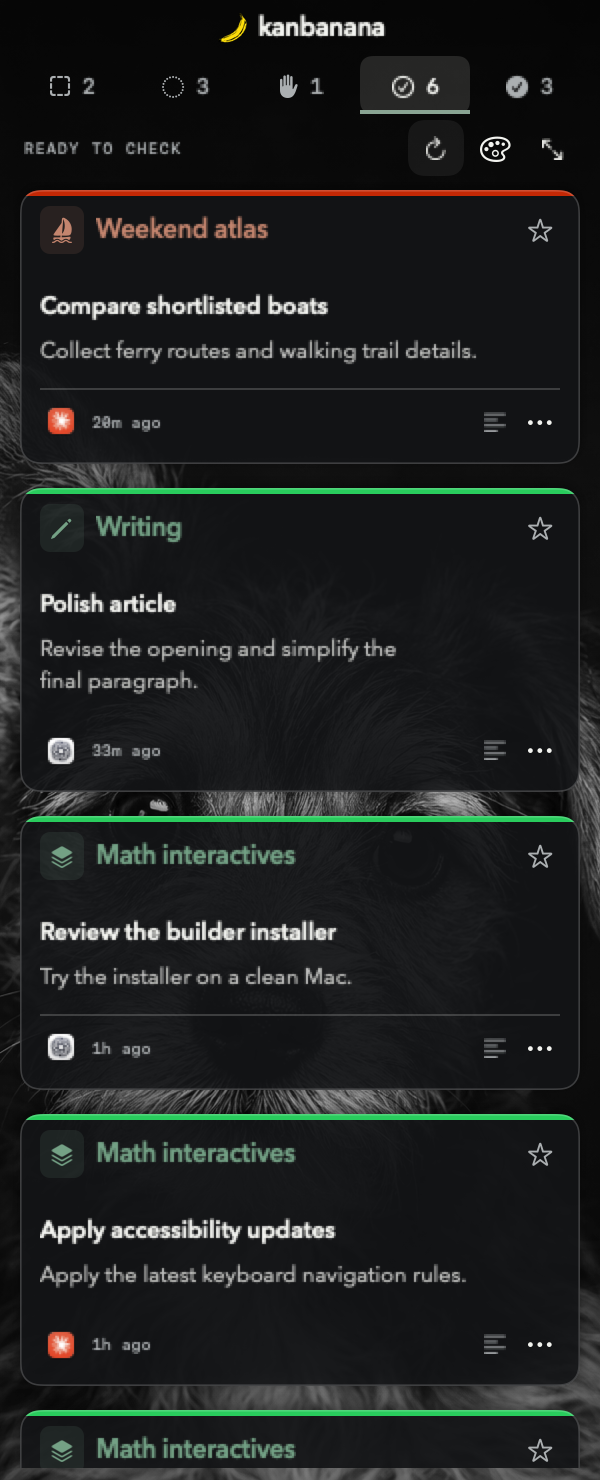
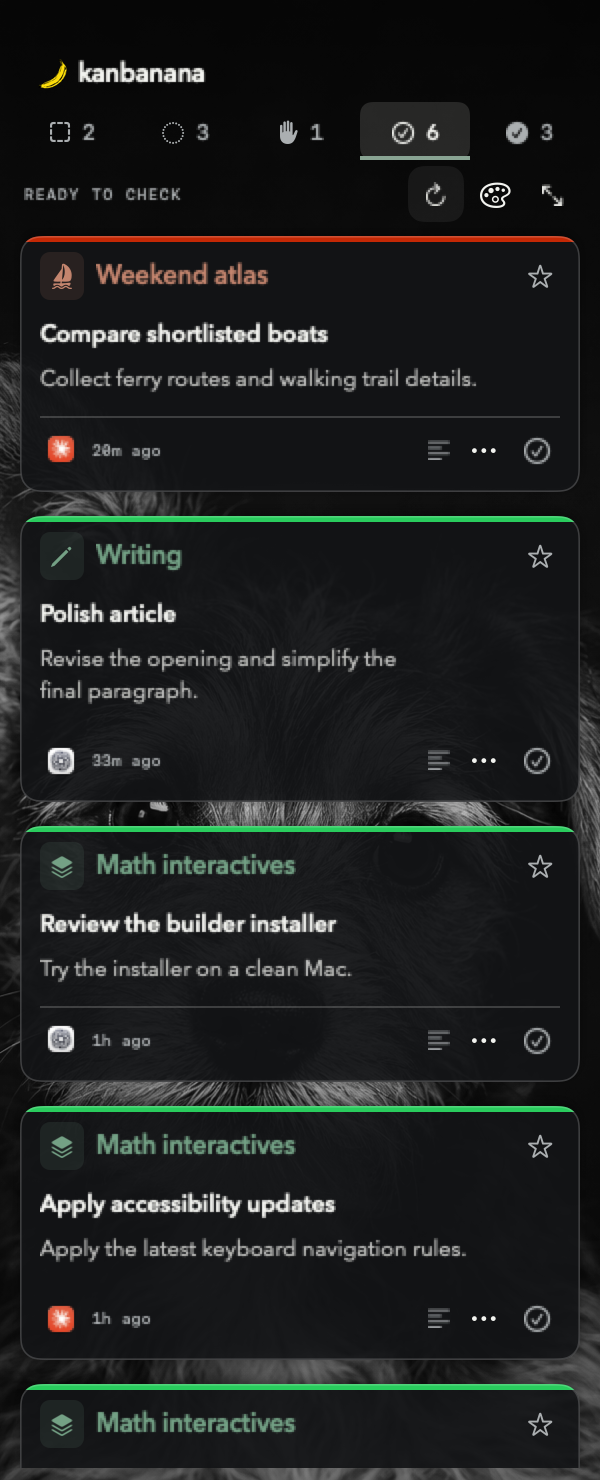
Align Focus branding and add one-click card completion

diff --git a/Sources/AgentKanban/ConversationCard.swift b/Sources/AgentKanban/ConversationCard.swift
@@ -68,30 +68,34 @@ struct ConversationCard: View, Equatable {
                         .accessibilityLabel("\(detailsExpanded ? "Collapse" : "Expand") \(displayedColumn == .todo ? "To do" : "dealt-with") card: \(card.title)")
                         .accessibilityValue(detailsExpanded ? "Expanded" : "Collapsed")
                 }
-            }.padding(.horizontal, compact ? 8 : 10).padding(.vertical, compact ? 6 : 8)
+            }.padding(.horizontal, compact ? 8 : 10)
+                .padding(.top, compact ? 6 : 8).padding(.bottom, compact ? 6 : 4)
                 .frame(maxWidth: .infinity, alignment: .leading)
                 .background(appearance.theme == .brutalist ? Color.black : Color.clear)
-                .padding(.bottom, appearance.theme == .brutalist ? 8 : 0)
+                .padding(.bottom, appearance.theme == .brutalist ? (compact ? 8 : 4) : 0)
             if !compact || !collapsed {
                 VStack(alignment: .leading, spacing: 0) {
-                    Button { store.open(card) } label: {
-                        VStack(alignment: .leading, spacing: 7) {
-                            if !compact {
-                                HStack(spacing: 5) {
-                                    if collapsed { ProviderIcon(provider: card.provider, size: 15) }
-                                    Text(card.title).font(appearance.font(12, weight: .semibold)).tracking(-0.1).lineSpacing(1).lineLimit(2).foregroundStyle(appearance.ink).frame(maxWidth: .infinity, alignment: .leading)
+                    HStack(alignment: .bottom, spacing: 6) {
+                        Button { store.open(card) } label: {
+                            VStack(alignment: .leading, spacing: 7) {
+                                if !compact {
+                                    HStack(spacing: 5) {
+                                        if collapsed { ProviderIcon(provider: card.provider, size: 15) }
+                                        Text(card.title).font(appearance.font(12, weight: .semibold)).tracking(-0.1).lineSpacing(1).lineLimit(2).foregroundStyle(appearance.ink).frame(maxWidth: .infinity, alignment: .leading)
+                                    }
                                 }
+                                if !collapsed {
+                                    if let r = card.requests.last {
+                                        Text(latestSummary ?? String(r.text.prefix(220))).font(appearance.font(11)).lineSpacing(1).lineLimit(3).foregroundStyle(appearance.ink.opacity(0.76))
+                                    } else { Text("Request history unavailable").font(appearance.font(10)).foregroundStyle(appearance.muted) }
+                                }
+                            }.contentShape(Rectangle())
+                        }.buttonStyle(.plain).padding(.top, compact ? 5 : collapsed ? 2 : 5).help("Open \(card.title) in \(card.providerName)")
+                            .onDrag { NSItemProvider(object: card.id as NSString) } preview: {
+                                Text(card.title).font(appearance.font(12, weight: .semibold)).lineLimit(1).padding(10).frame(width: 200).background(color.wash, in: RoundedRectangle(cornerRadius: 8))
                             }
-                            if !collapsed {
-                                if let r = card.requests.last {
-                                    Text(latestSummary ?? String(r.text.prefix(220))).font(appearance.font(11)).lineSpacing(1).lineLimit(3).foregroundStyle(appearance.ink.opacity(0.76))
-                                } else { Text("Request history unavailable").font(appearance.font(10)).foregroundStyle(appearance.muted) }
-                            }
-                        }.contentShape(Rectangle())
-                    }.buttonStyle(.plain).padding(.top, compact ? 5 : collapsed ? 4 : 10).help("Open \(card.title) in \(card.providerName)")
-                        .onDrag { NSItemProvider(object: card.id as NSString) } preview: {
-                            Text(card.title).font(appearance.font(12, weight: .semibold)).lineLimit(1).padding(10).frame(width: 200).background(color.wash, in: RoundedRectangle(cornerRadius: 8))
-                        }
+                        if collapsed { dealtWithButton }
+                    }
                     if !collapsed {
                         if displayedColumn == .todo || disposition.todoNote != nil {
                             HStack(alignment: .top, spacing: 4) {
@@ -133,6 +137,7 @@ struct ConversationCard: View, Equatable {
                             Spacer(minLength: 0)
                             Button(action: showHistory) { Image(systemName: "text.alignleft").font(.system(size: 11)) }.buttonStyle(.plain).help("Expand request history").accessibilityLabel("Request history for \(card.title)")
                             Menu { actions } label: { Image(systemName: "ellipsis").font(.system(size: 11)) }.menuStyle(.borderlessButton).menuIndicator(.hidden).fixedSize().help("Conversation actions").accessibilityLabel("Actions for \(card.title)")
+                            dealtWithButton
                         }.foregroundStyle(appearance.muted)
                         if disposition.parked {
                             Button { store.park(card, false) } label: { Label("Restore to board", systemImage: "arrow.uturn.backward").font(appearance.font(10, weight: .medium)) }.buttonStyle(.plain).foregroundStyle(appearance.ink).padding(.top, 9)
@@ -141,7 +146,7 @@ struct ConversationCard: View, Equatable {
                 }.padding(.horizontal, compact ? 8 : 10).padding(.bottom, compact ? 2 : collapsed ? 8 : 11)
             }
             if compact && collapsed {
-                HStack { providerButton; Spacer(minLength: 0) }
+                HStack { providerButton; Spacer(minLength: 0); dealtWithButton }
                     .padding(.horizontal, 8).padding(.bottom, 2)
             }
         }.background(appearance.paper)
@@ -165,6 +170,22 @@ struct ConversationCard: View, Equatable {
             .help(disposition.priority == true ? "Remove priority" : "Make priority — keep at the top of lists")
             .accessibilityLabel("\(disposition.priority == true ? "Remove priority from" : "Make priority:") \(card.title)")
             .accessibilityValue(disposition.priority == true ? "Priority" : "Not priority")
+    }
+    private var dealtWithButton: some View {
+        let isDealtWith = displayedColumn == .dealtWith && !disposition.parked
+        return Button {
+            withAnimation(reduceMotion ? nil : .easeOut(duration: 0.16)) {
+                store.mark(card, .dealtWith)
+                if disposition.parked { store.park(card, false) }
+            }
+        } label: {
+            Image(systemName: isDealtWith ? "checkmark.circle.fill" : "checkmark.circle")
+                .font(.system(size: 13, weight: .medium)).frame(width: 22, height: 20)
+                .contentShape(Rectangle())
+        }.buttonStyle(.plain).foregroundStyle(appearance.muted)
+            .disabled(isDealtWith)
+            .help(isDealtWith ? "Already dealt with" : "Move to Dealt with")
+            .accessibilityLabel("\(isDealtWith ? "Already dealt with:" : "Move to Dealt with:") \(card.title)")
     }
     private var providerButton: some View {
         Button { store.open(card) } label: { ProviderIcon(provider: card.provider, size: 15).frame(width: 20, height: 20).contentShape(Rectangle()) }

diff --git a/Sources/AgentKanban/FocusView.swift b/Sources/AgentKanban/FocusView.swift
@@ -35,7 +35,8 @@ struct FocusBoard<CardContent: View>: View {
                 Text("kanbanana").font(appearance.font(13, weight: .semibold)).tracking(-0.3)
             }
             .foregroundStyle(appearance.ink)
-            .frame(maxWidth: .infinity).frame(height: 28)
+            .frame(maxWidth: .infinity, alignment: .leading).frame(height: 28)
+            .padding(.horizontal, 18).padding(.top, 23)
             .accessibilityElement(children: .combine)
 
             HStack(spacing: 2) {

diff --git a/CHANGELOG.md b/CHANGELOG.md
@@ -2,7 +2,8 @@
 
 ## Unreleased
 
-- Add the banana mark and kanbanana title to Focus mode without taking space from the card list.
+- Add a compact, left-aligned banana mark and kanbanana title to Focus mode.
+- Tighten the gap between project and conversation titles, and add a one-click Dealt with action to every card.
 - Apply pipe backpressure during startup bursts so a busy interface cannot drop reader updates or misreport a size-limit failure.
 
 ## 0.3.0-beta.1
